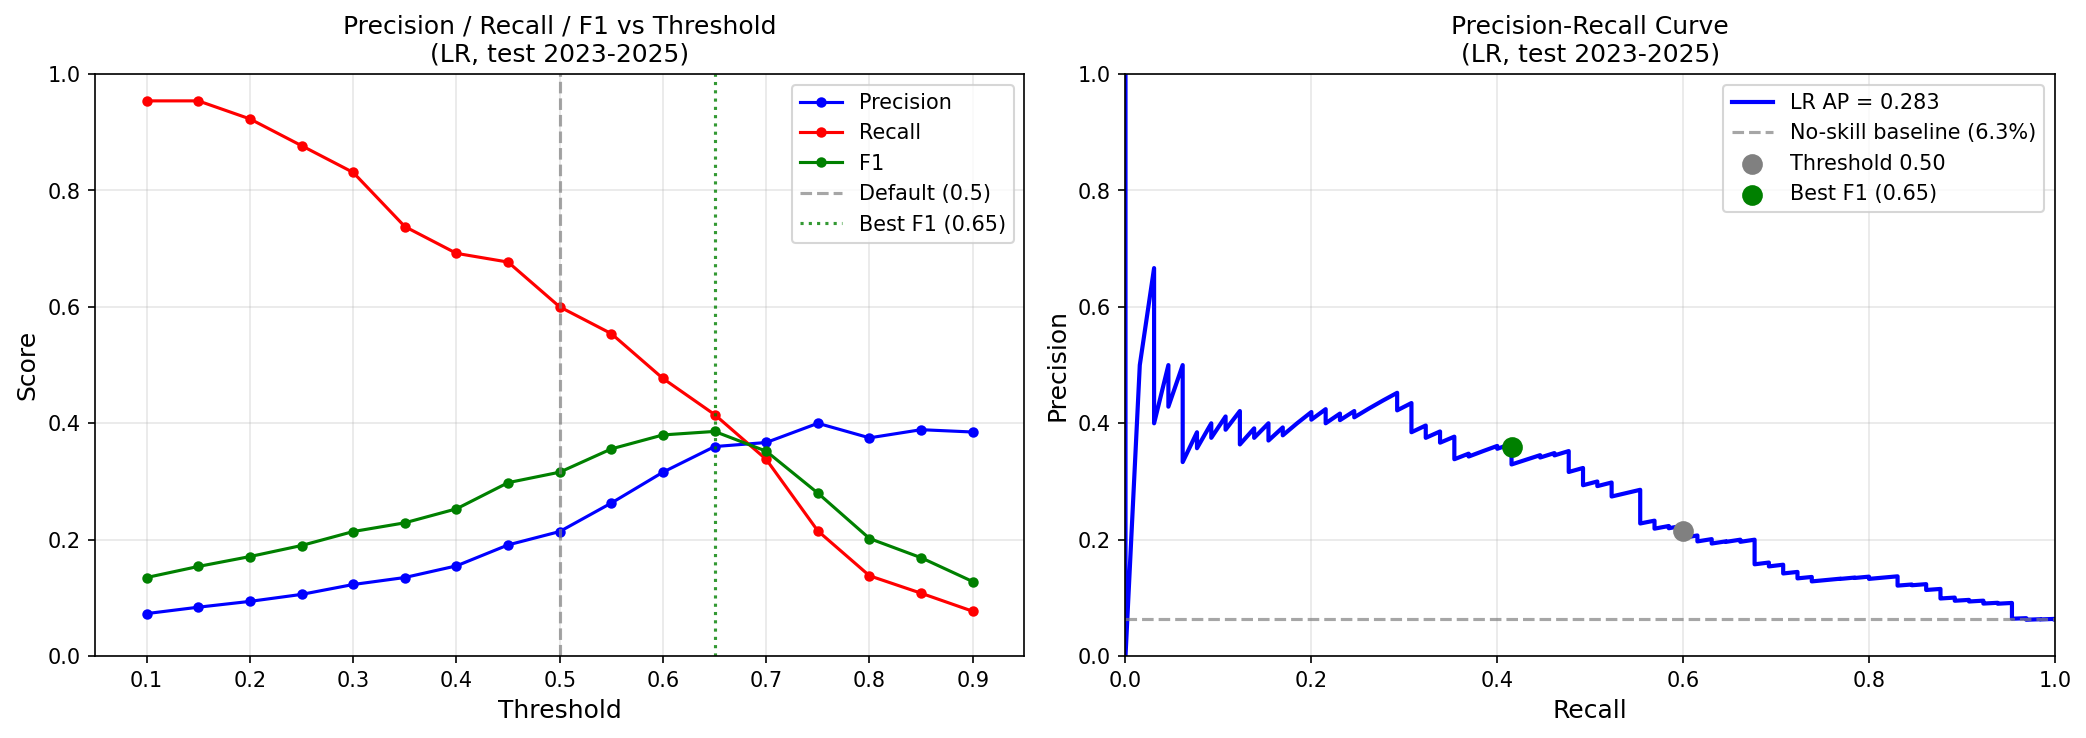
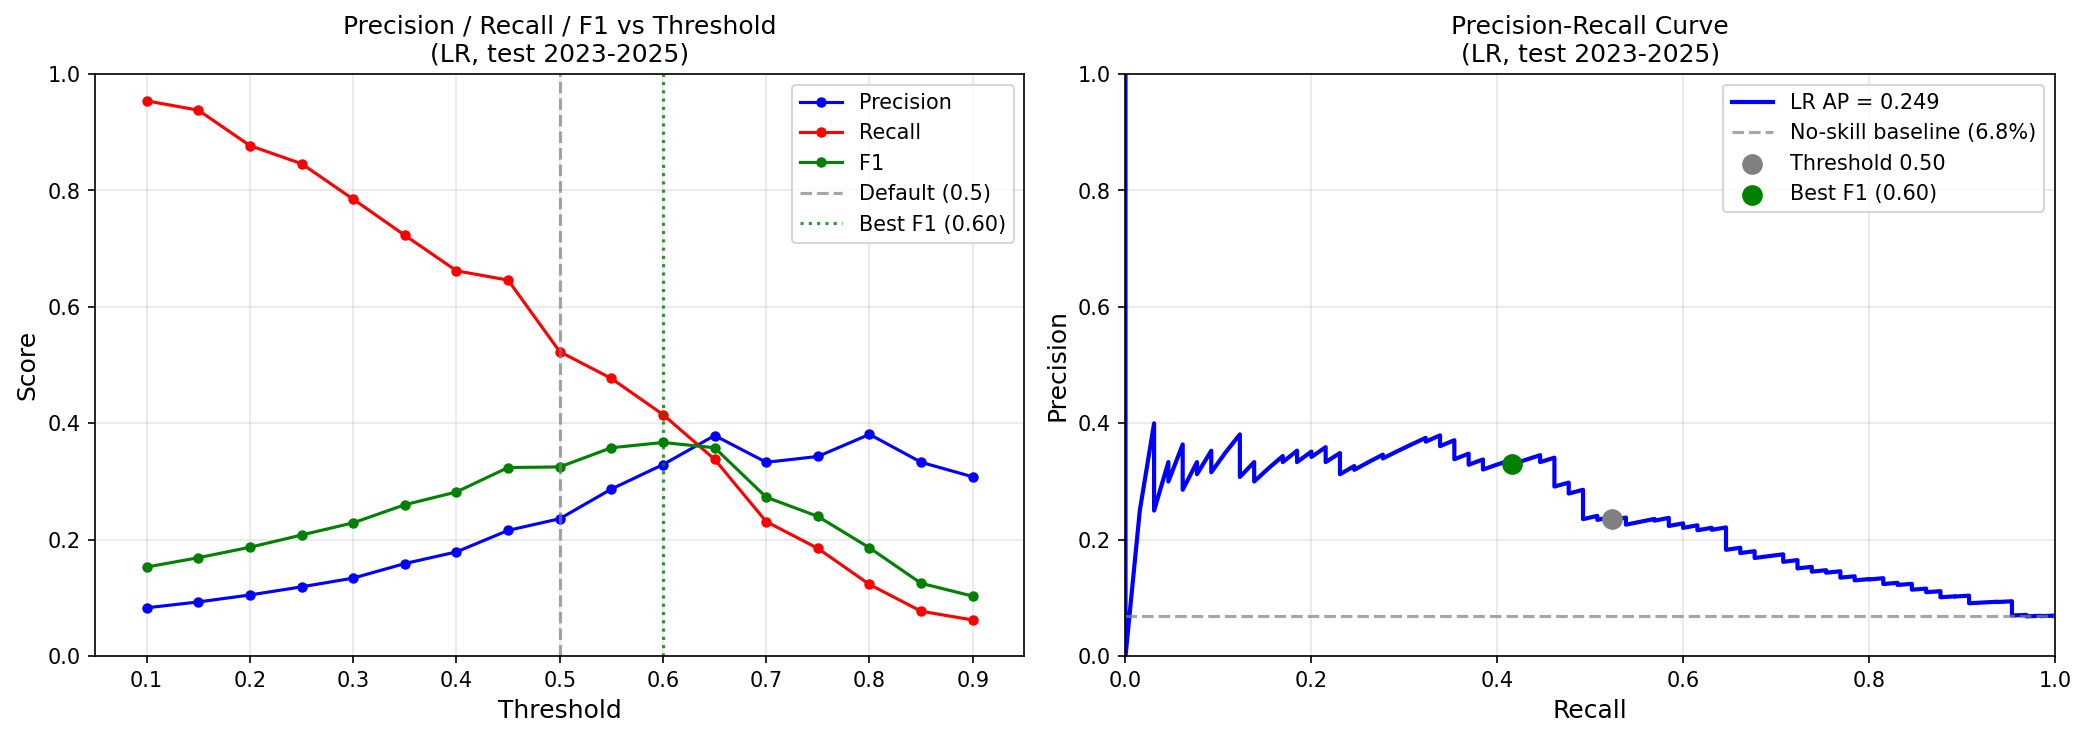
28-day eval: right-censor the label; pick the threshold on validation
Windows that run past a station's last visit are dropped instead of scored 0
(--no-censor reproduces the old label). The operating threshold now comes
from the pre-registered rule on 2020-22 validation (highest t with POD >=
0.8): t* = 0.25. The old headline t = 0.60 was picked on the test sweep.
S1 test: AUC 0.789, precision 0.119, recall 0.846, lift 1.74.

Ported from worktree-climatology-fix (572ff7d).

Claude-Session: https://claude.ai/code/session_019qugKZoFUV2rvdqeagrEFM

diff --git a/src/models/final_evaluation_threshold_sweep.py b/src/models/final_evaluation_threshold_sweep.py
@@ -44,6 +44,9 @@ _ap.add_argument('--input',
                       'is data/hab_features_tidal.csv)')
 _ap.add_argument('--label-col', default=None,
                  help='use this prebuilt column as the label instead of bloom_28d (S3)')
+_ap.add_argument('--no-censor', action='store_true',
+                 help='reproduce the old label: windows running past a station last visit '
+                      'count as 0 instead of being dropped')
 _ap.add_argument('--tag', default='',
                  help='suffix for every output file, e.g. _S1')
 _args, _ = _ap.parse_known_args()
@@ -117,16 +120,23 @@ df['chl_trend'] = (
       .transform(lambda x: x.rolling(4, min_periods=3).apply(_slope, raw=True))
 )
 
-df['bloom_28d'] = 0
+# Right-censored (fix ported from worktree-climatology-fix 572ff7d, 2026-09-28): a window that
+# runs past the station's last visit and has no bloom in it is unresolved, so it is NaN (dropped)
+# rather than scored 0. --no-censor reproduces the old label.
+df['bloom_28d'] = np.nan
 for station, grp in df.groupby('station_name'):
     idx   = grp.index
     dates = grp['date'].values
     chl   = grp['Chlorophyll'].values
-    labels = np.zeros(len(grp), dtype=int)
+    last  = dates.max()
+    labels = np.full(len(grp), np.nan)
     for i in range(len(grp)):
-        mask = (dates > dates[i]) & (dates <= dates[i] + np.timedelta64(28, 'D'))
+        end = dates[i] + np.timedelta64(28, 'D')
+        mask = (dates > dates[i]) & (dates <= end)
         if mask.any() and (chl[mask] > BLOOM_THRESHOLD).any():
             labels[i] = 1
+        elif end <= last or _args.no_censor:
+            labels[i] = 0
     df.loc[idx, 'bloom_28d'] = labels
 
 if _args.label_col:
@@ -216,6 +226,22 @@ _grid = np.round(np.arange(0.10, 0.91, 0.05), 2)
 _val_f1 = [f1_score(y_val, (lr_val_p >= t).astype(int), zero_division=0) for t in _grid]
 VAL_T = float(_grid[int(np.argmax(_val_f1))])
 print(f"Validation-F1 threshold (2020-2022): {VAL_T:.2f}")
+
+# Operating threshold (2026-09-28): the project's pre-registered rule, applied on VALIDATION only --
+# the highest threshold whose validation recall (POD) is still >= 0.80. The earlier headline t=0.60
+# was picked on the 2023-25 test sweep, so its test precision/lift were not independent estimates.
+TARGET_POD = 0.80
+_val_pod = [recall_score(y_val, (lr_val_p >= t).astype(int), zero_division=0) for t in _grid]
+_ok = [t for t, p in zip(_grid, _val_pod) if p >= TARGET_POD]
+OP_T = float(max(_ok)) if _ok else float(_grid[0])
+_op = (lr_test_p >= OP_T).astype(int)
+_tp = int(((_op == 1) & (y_test == 1)).sum()); _fp = int(((_op == 1) & (y_test == 0)).sum())
+_fn = int(((_op == 0) & (y_test == 1)).sum())
+_prec = _tp / (_tp + _fp) if _tp + _fp else float('nan')
+print(f"Operating threshold (validation POD >= {TARGET_POD}): t* = {OP_T:.2f} "
+      f"(validation POD {_val_pod[list(_grid).index(OP_T)]:.3f})")
+print(f"  Test at t*: precision {_prec:.3f}  recall {_tp / (_tp + _fn):.3f}  "
+      f"lift {_prec / y_test.mean():.2f}  TP {_tp} / FP {_fp} / FN {_fn}")
 
 # ---------------------------------------------------------------------------
 # Threshold sweep -- LR on test set
